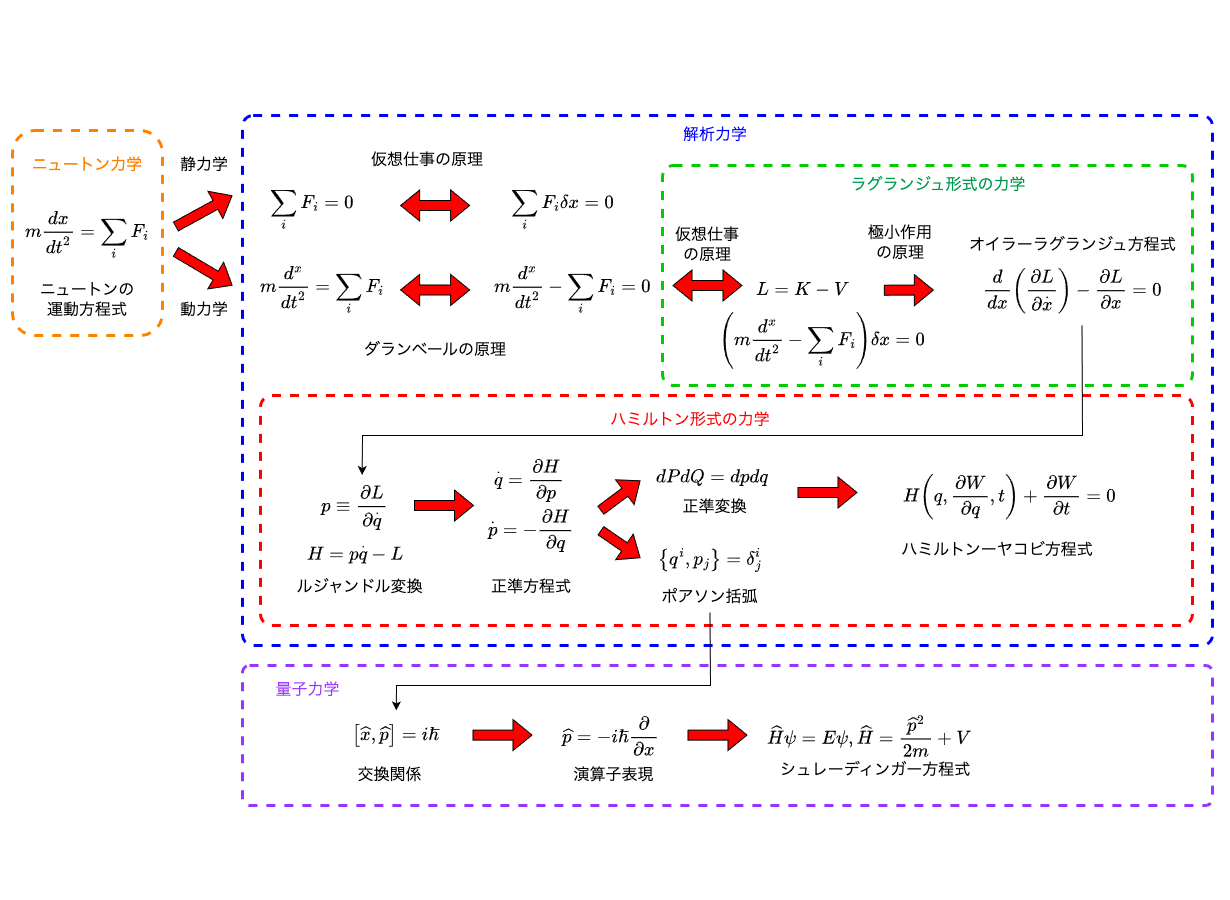
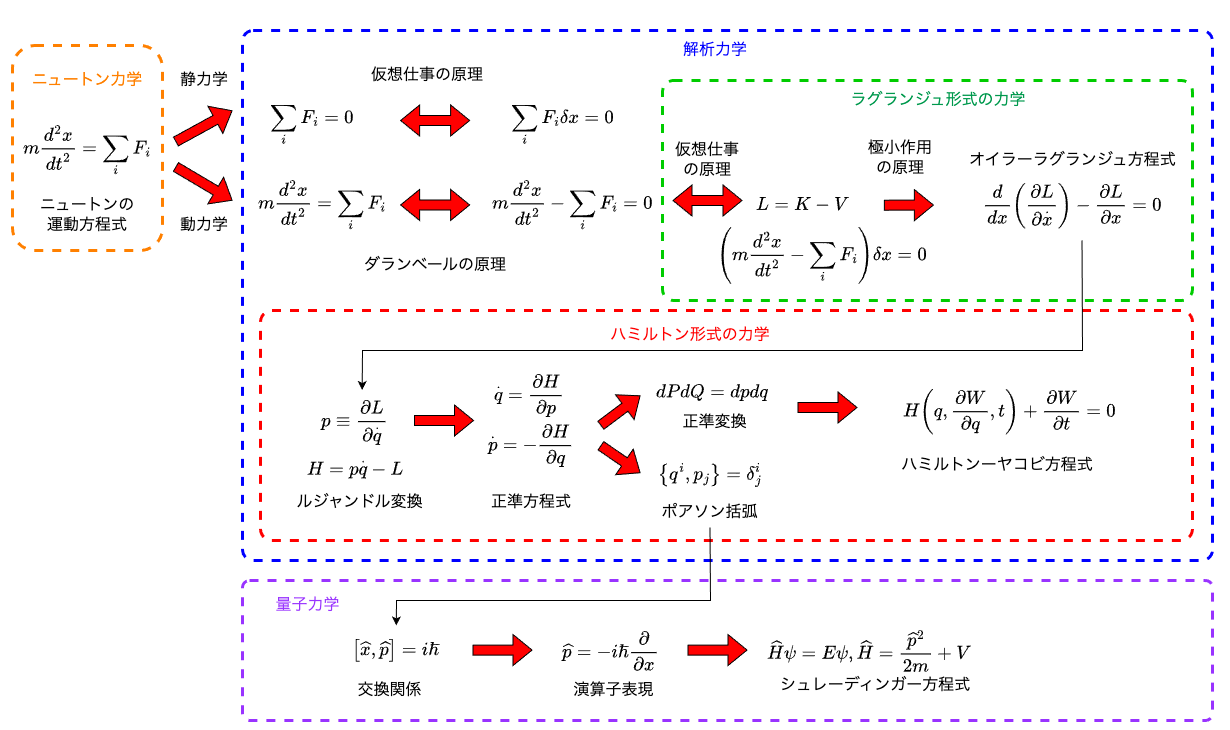
:wrench: revises Chap. 1

diff --git a/overview/index.html b/overview/index.html
@@ -177,7 +177,7 @@
                                     <p><span class="math display">\[
                                     F = \frac{mv^2}{r}.
                                     \]</span></p>
-                                    <p>この式は、紐の張力によって、常に物体の進行方向と90度傾いた方向に力<span
+                                    <p>この式は、紐の張力によって、常に物体の進行方向から90度傾いた方向に力<span
                                     class="math inline">\(F\)</span>が作用しており、その結果として加速度<span
                                     class="math inline">\(mv^2/r\)</span>が生じている、ということを意味している。</p>
                                     <p>さて、この式の右辺を左辺に移項してみよう。</p>
@@ -199,7 +199,7 @@
                                     class="math inline">\(m\)</span>が質量、<span
                                     class="math inline">\(a\)</span>が加速度である。いま、座標を<span
                                     class="math inline">\(x\)</span>とし、力が保存力であるとして、<span
-                                    class="math inline">\(F=-V&#39;(r)\)</span>と書ける場合を考えると、運動方程式は以下のようにかける。</p>
+                                    class="math inline">\(F=-V&#39;(r)\)</span>と書ける場合を考えると、運動方程式は以下のようになる。</p>
                                     <p><span class="math display">\[
                                     m \frac{d^2 x}{dt^2} = - V&#39;(x).
                                     \]</span></p>

diff --git a/overview/README.md b/overview/README.md
@@ -86,7 +86,7 @@ $$
 F = \frac{mv^2}{r}.
 $$
 
-この式は、紐の張力によって、常に物体の進行方向と90度傾いた方向に力$F$が作用しており、その結果として加速度$mv^2/r$が生じている、ということを意味している。
+この式は、紐の張力によって、常に物体の進行方向から90度傾いた方向に力$F$が作用しており、その結果として加速度$mv^2/r$が生じている、ということを意味している。
 
 さて、この式の右辺を左辺に移項してみよう。
 
@@ -106,7 +106,7 @@ $$
 
 これから解析力学を学ぶが、そのまえに解析力学の全体像を概観しよう。これから学ぶことであるから理解できなくてもかまわない。理論の構築がどのような流れであり、これからどんな式が出てきて、最終的にどんなことを理解すればよいか、大まかな「地図」をつかんで欲しい。
 
-ニュートンの運動方程式、$F=ma$から始めよう。$F$が力、$m$が質量、$a$が加速度である。いま、座標を$x$とし、力が保存力であるとして、$F=-V'(r)$と書ける場合を考えると、運動方程式は以下のようにかける。
+ニュートンの運動方程式、$F=ma$から始めよう。$F$が力、$m$が質量、$a$が加速度である。いま、座標を$x$とし、力が保存力であるとして、$F=-V'(r)$と書ける場合を考えると、運動方程式は以下のようになる。
 
 $$
 m \frac{d^2 x}{dt^2} = - V'(x).
